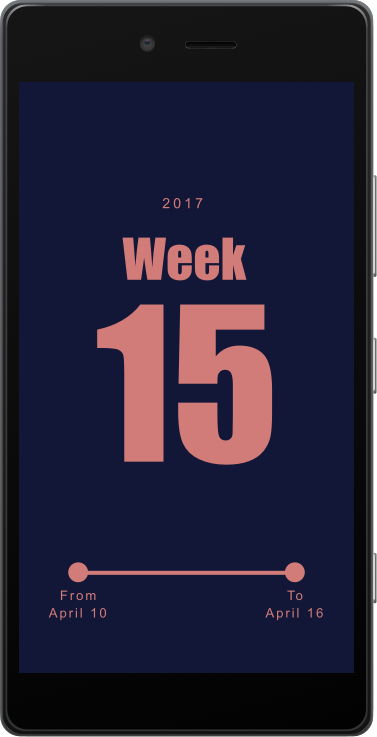
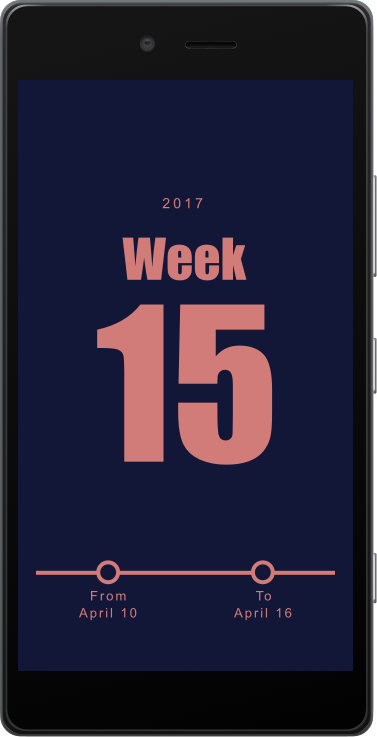
improve markup; rewrite new image

Changed region(s): [[0.0875, 0.749, 0.3501, 0.8426], [0.6127, 0.749, 0.8753, 0.8426]]

diff --git a/index.html b/index.html
@@ -41,14 +41,14 @@
       <ul class="timeline-container">
         <li class="timeline-container--item">
           <div class="timeline-container--item---date">
-            <span class="item-block from-date--label">From</span>
-            <span class="item-block from-date--number">M/D/Y</span>
+            <p class="item-block from-date--label">From</p>
+            <p class="item-block from-date--number"></p>
           </div>
         </li>
         <li class="timeline-container--item">
           <div class="timeline-container--item---date">
-            <span class="item-block to-date--label">To</span>
-            <span class="item-block to-date--number">M/D/Y</span>
+            <p class="item-block to-date--label">To</p>
+            <p class="item-block to-date--number"></p>
           </div>
         </li>
       </ul>

diff --git a/css/application.css b/css/application.css
@@ -78,3 +78,4 @@ h2.container-week-label {
 }
 li { transition: all 200ms ease-in; }
 li .status { border-top: 4px solid #D17C78; }
+p.item-block { display: block !important; }
